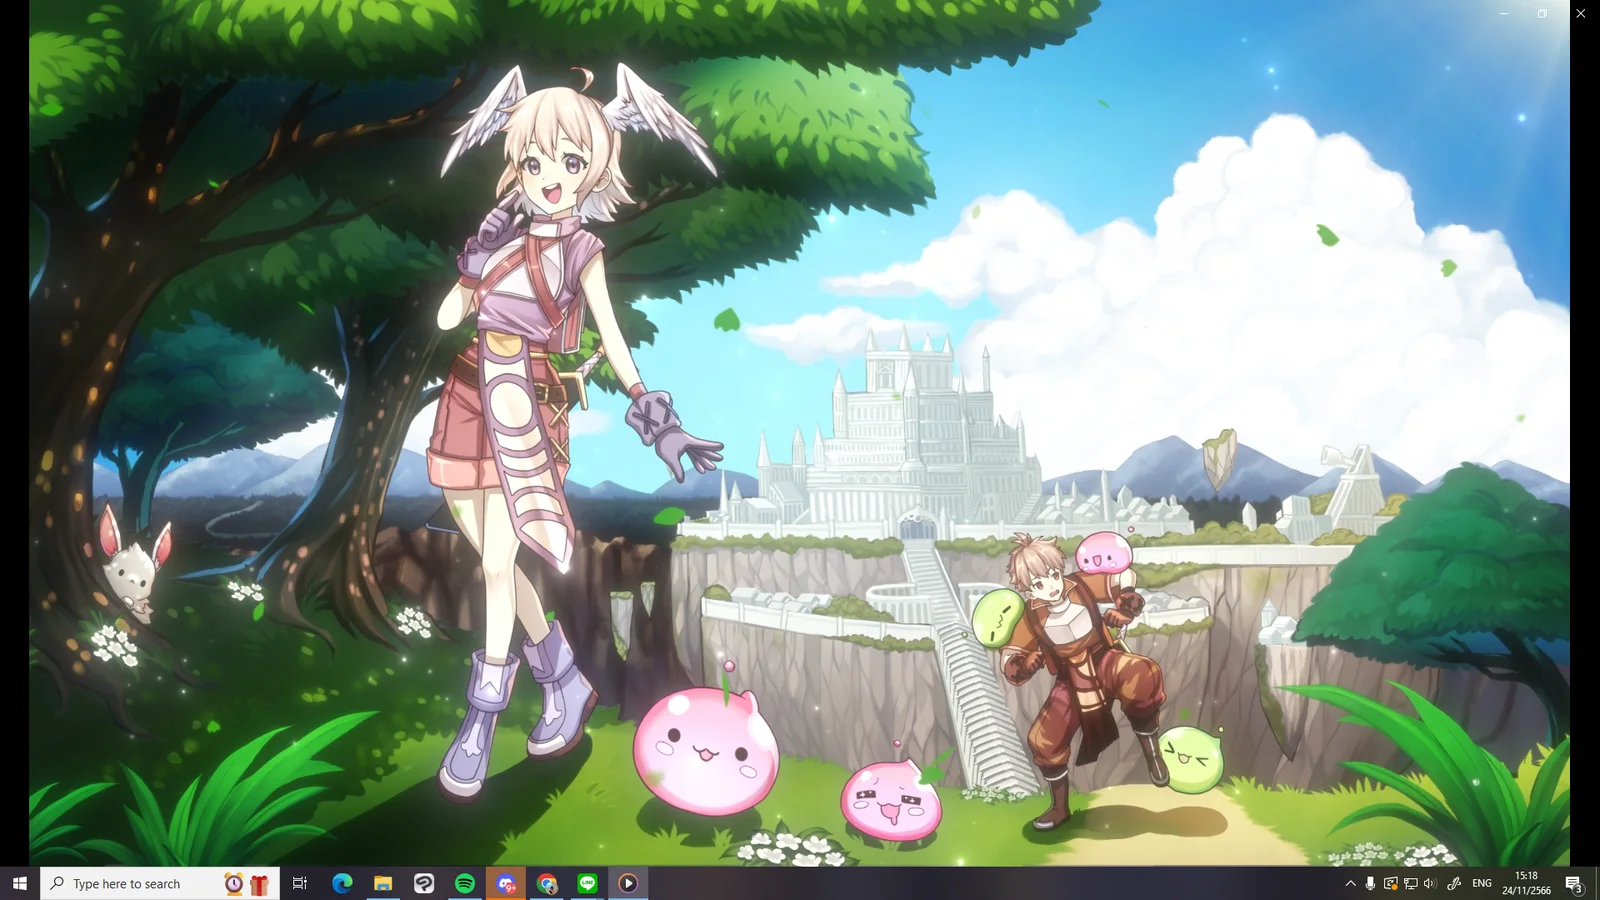
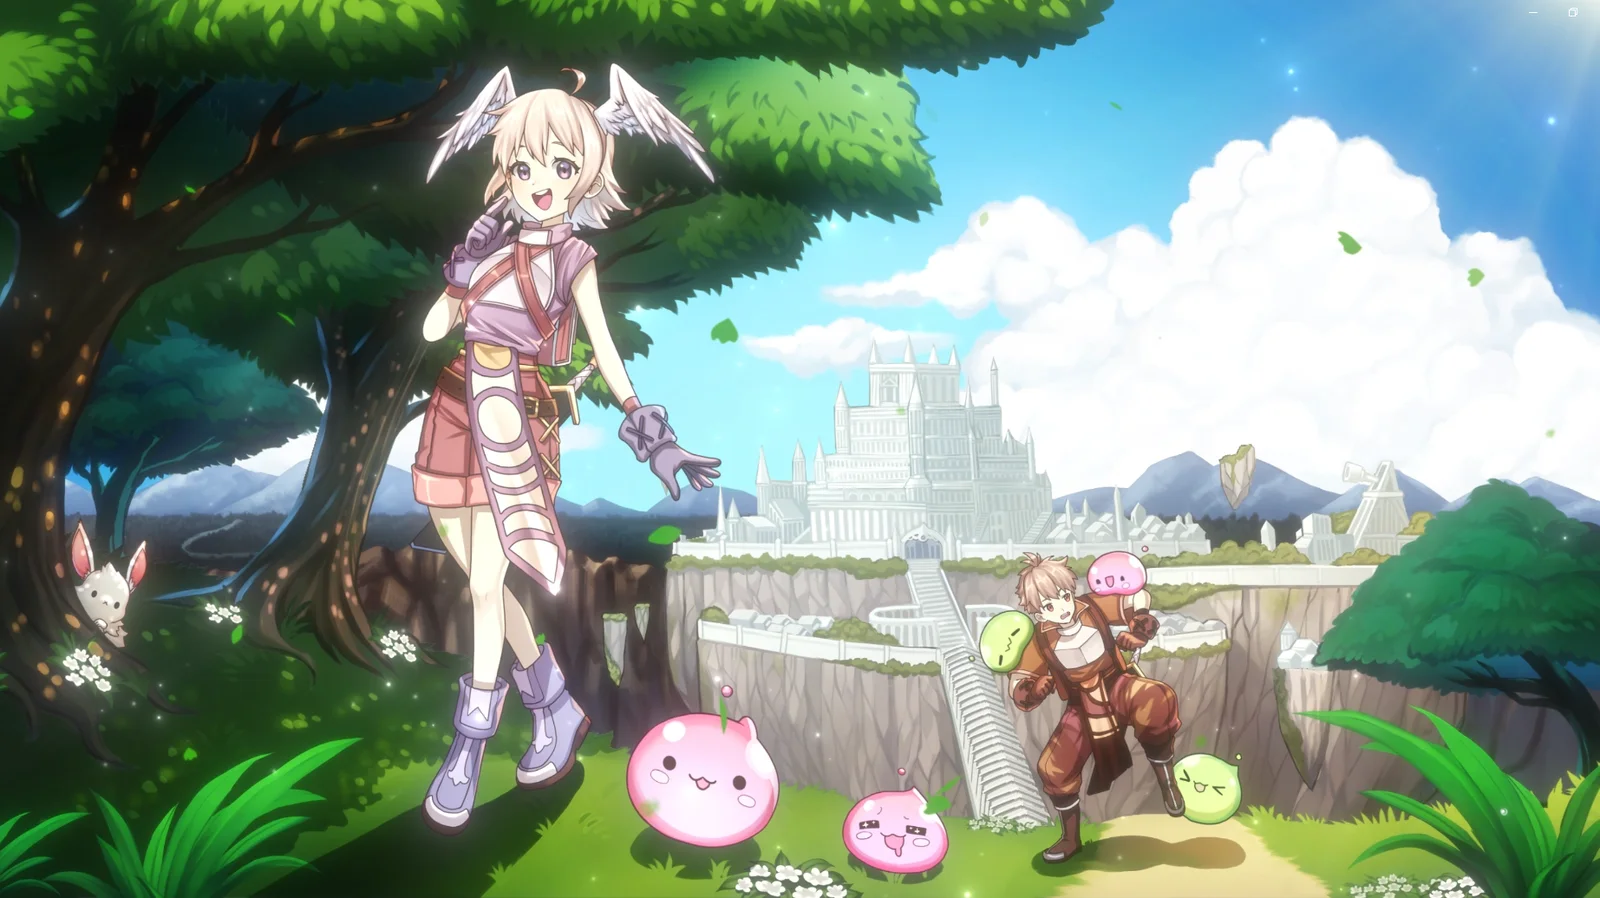
Crop taskbar and black bars from CG image
Claude-Session: https://claude.ai/code/session_0182ETGqkY6VZC2ACV9rE9Mb

diff --git a/index.html b/index.html
@@ -1059,7 +1059,7 @@ var TALENTS = [
   { id:'v7-kone', img:'talent-v7-kone.webp', face:'talent-v7-kone-face.webp?v=4', halves:['talent-v7-kone-half.webp?v=4'], card:'talent-v7-kone-half.webp?v=4', name:'Shinonome Kone', short:'Kone', ini:'SK', type:'VTuber', aff:{name:'Virtual 7', logo:'logos/virtual7.png'}, langs:['th', 'en', 'kr'], color:'#FCE6EE', tags:['#FreeTalk', '#Gaming', '#Singing'], works:['promo', 'review', 'dub', 'collab', 'cover'], links:[['YouTube',10700,'https://www.youtube.com/@ShinonomeKone'],['X',null,'https://x.com/ShinonomeKone']] },
 ];
 var ART = [
-  { label:['ภาพประกอบ Full CG','Full CG Illustration'], icon:'image', imgs:[['art-cg-1.webp',2400,1350],['art-cg-2.webp',2400,1350],['art-cg-3.webp',1414,2000],['art-cg-4.webp',2400,1004],['art-p-stream-7.webp',1274,712],['art-p-stream-9.webp',1600,900],['art-p-stream-8.webp',1274,717],['art-p-cg-1.webp',1600,900]], bg:'#F1E2F6', desc:['ภาพประกอบลงสีเต็ม สำหรับคีย์วิชวล ปก และงานโปรโมต','Fully rendered illustrations for key visuals, covers and promotion.'], kw:'ภาพประกอบ วาดรูป คีย์วิชวล ปก illustration' },
+  { label:['ภาพประกอบ Full CG','Full CG Illustration'], icon:'image', imgs:[['art-cg-1.webp',2400,1350],['art-cg-2.webp',2400,1350],['art-cg-3.webp',1414,2000],['art-cg-4.webp',2400,1004],['art-p-stream-7.webp',1274,712],['art-p-stream-9.webp?v=2',1600,898],['art-p-stream-8.webp',1274,717],['art-p-cg-1.webp',1600,900]], bg:'#F1E2F6', desc:['ภาพประกอบลงสีเต็ม สำหรับคีย์วิชวล ปก และงานโปรโมต','Fully rendered illustrations for key visuals, covers and promotion.'], kw:'ภาพประกอบ วาดรูป คีย์วิชวล ปก illustration' },
   { label:['ออกแบบตัวละคร','Character Design'], icon:'person', imgs:[['art-char-1.webp',3200,1203],['art-char-2.webp',3600,757],['art-p-char-1.webp',2048,1153],['art-p-char-2.webp',2048,1153],['art-p-char-3.webp',1352,761],['art-p-char-4.webp',2048,1152],['art-p-char-5.webp',2048,1152],['art-p-char-6.webp',2048,1152],['art-p-char-7.webp',1875,1030],['art-p-char-8.webp',1970,1009]], bg:'#FBDDE8', desc:['ออกแบบตัวละคร พร้อมชีตหลายมุมและสีหน้า','Character design with turnaround sheets and expressions.'], kw:'ออกแบบตัวละคร คาแรคเตอร์ character' },
   { label:['ภาพตัวละคร & ชิบิ','Character Art & Chibi'], icon:'person', imgs:[['art-p-cart-p-1.webp',678,931],['art-p-cart-p-2.webp',960,1139],['art-p-cart-p-3.webp',655,1146],['art-p-cart-p-4.webp',1038,1600],['art-p-cart-p-5.webp',1154,1237],['art-p-cart-p-6.webp',1112,1600],['art-p-cart-p-7.webp',1300,1008],['art-p-cart-p-8.webp',1007,1600],['art-p-cart-p-9.webp',405,1600],['art-p-cart-p-10.webp',549,1600],['art-p-cart-p-11.webp',527,1600],['art-p-cart-p-12.webp',1291,1600],['art-p-cart-p-13.webp',1591,1600],['art-p-cart-p-14.webp',1571,1600],['art-p-cart-p-15.webp',1504,1600],['art-p-cart-p-16.webp',1172,1302],['art-p-cart-p-17.webp',1119,1375],['art-p-cart-p-18.webp',1329,1600],['art-p-cart-p-19.webp',1097,1318],['art-p-cart-p-20.webp',1600,1321],['art-p-cart-p-21.webp',1600,1560],['art-p-cart-p-22.webp',1515,1600],['art-p-cart-p-23.webp',1088,1600]], bg:'#FBE7EE', desc:['ภาพตัวละครเต็มตัว ครึ่งตัว ชิบิ และมาสคอต','Full-body, half-body, chibi and mascot character art.'], kw:'ภาพตัวละคร เต็มตัว ครึ่งตัว ชิบิ มาสคอต chibi mascot full body' },
   { label:['อีโมต & ไอคอน','Emotes & Icons'], icon:'sticker', imgs:[['art-p-emote-1.webp',1014,1100],['art-p-emote-2.webp',1082,1100],['art-p-emote-3.webp',1100,1092],['art-p-emote-4.webp',1072,1100],['art-p-emote-5.webp',1100,1069],['art-p-emote-6.webp',1100,897],['art-p-emote-7.webp',995,1100],['art-p-emote-8.webp',907,1100],['art-p-emote-9.webp',1100,1096],['art-p-emote-10.webp',1100,895],['art-p-emote-11.webp',878,977],['art-p-emote-12.webp',981,990],['art-p-emote-13.webp',974,985],['art-p-emote-14.webp',970,955],['art-p-emote-15.webp',979,920]], bg:'#FFF0C9', desc:['อีโมตและไอคอนแจ้งเตือนสำหรับสตรีม Twitch, YouTube และ Discord','Emotes and alert icons for Twitch, YouTube and Discord streams.'], kw:'อีโมต อิโมจิ ไอคอน แจ้งเตือน emote emoji alert icon twitch discord' },
